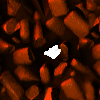
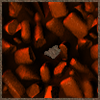
Softwall destruction implemented.

diff --git a/src/Map/Map.java b/src/Map/Map.java
@@ -57,11 +57,9 @@ public class Map {
         plants  = new ArrayList<Plant>() ;
         teazels = new ArrayList<Teazel>() ;
 
-        wall = ImageIO.read(new File("Resources/Images/softWall.png"));
         teazel = ImageIO.read(new File("Resources/Images/teazel.png"));
         area = ImageIO.read(new File("Resources/Images/RedEarth.png"));
         plant = ImageIO.read(new File("Resources/Images/plant.png"));
-        hardWall = ImageIO.read(new File("Resources/Images/hardWall.png"));
 
         initializeMap();
 
@@ -109,6 +107,18 @@ public class Map {
                     softWalls.get(index).setLocX(i * 100 + xOffset);
                     softWalls.get(index).setLocY(j * 100 + yOffset);
 
+
+                    if (softWalls.get(index).getMode() == 1)
+                        g2d.drawImage(softWalls.get(index).getImageMode1(), softWalls.get(index).getLocX(), softWalls.get(index).getLocY() , null);
+                    else if (softWalls.get(index).getMode() == 2 )
+                        g2d.drawImage(softWalls.get(index).getImageMode2() , softWalls.get(index).getLocX() , softWalls.get(index).getLocY() , null);
+                    else if (softWalls.get(index).getMode() == 3)
+                        g2d.drawImage(softWalls.get(index).getImageMode3() , softWalls.get(index).getLocX() , softWalls.get(index).getLocY() , null);
+                    else if (softWalls.get(index).getMode() == 4)
+                        g2d.drawImage(softWalls.get(index).getImageMode4() , softWalls.get(index).getLocX() , softWalls.get(index).getLocY() , null);
+                    else
+                        g2d.drawImage(area, softWalls.get(index).getLocX(), softWalls.get(index).getLocY(), null);
+
                     index ++ ;
 
                 }
@@ -130,21 +140,6 @@ public class Map {
 
         }
 
-        for (SoftWall softWall : softWalls ) {
-
-            System.out.println(softWall.getMode());
-
-            if (softWall.getMode() == 1)
-                g2d.drawImage(softWall.getImageMode1(), null , softWall.getLocX() , softWall.getLocY());
-            else if (softWall.getMode() == 2 )
-                g2d.drawImage(softWall.getImageMode2() , softWall.getLocX() , softWall.getLocY() , null);
-            else if (softWall.getMode() == 3)
-                g2d.drawImage(softWall.getImageMode3() , softWall.getLocX() , softWall.getLocY() , null);
-            else if (softWall.getMode() == 4)
-                g2d.drawImage(softWall.getImageMode4() , softWall.getLocX() , softWall.getLocY() , null);
-            else
-                g2d.drawImage(area, softWall.getLocX(), softWall.getLocY(), null);
-        }
 
 
 

diff --git a/src/Map/SoftWall.java b/src/Map/SoftWall.java
@@ -87,9 +87,13 @@ public class SoftWall {
 
     public void setLocX(int locX) {
         this.locX = locX;
+
+        rectangle2D = new Rectangle(locX , locY , 100 , 100 ) ;
     }
 
     public void setLocY(int locY) {
         this.locY = locY;
+
+        rectangle2D = new Rectangle(locX , locY , 100 , 100 ) ;
     }
 }
